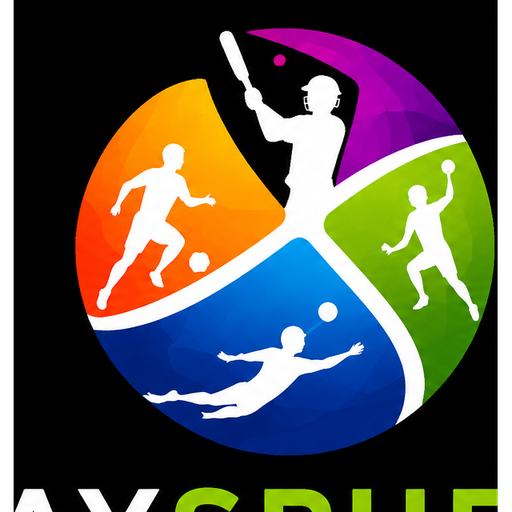
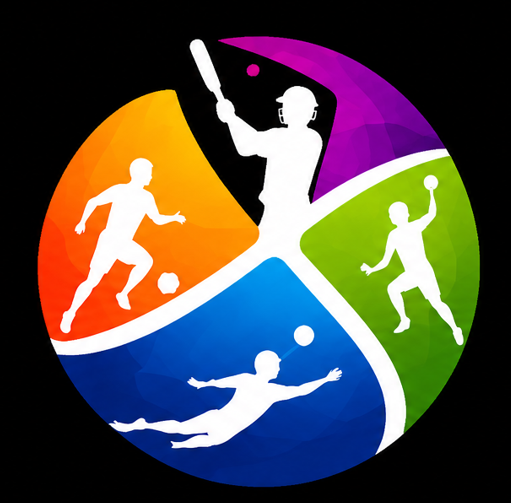
auto-commit for 63f26fcf-e458-4541-9079-3210f4660892

diff --git a/backend/server.py b/backend/server.py
@@ -1093,7 +1093,7 @@ async def delete_booking(booking_id: str, user: dict = Depends(get_current_user)
 
 # ---------- Stats ----------
 @api.get("/stats")
-async def get_stats(user: Optional[dict] = None):
+async def get_stats():
     return {
         "events": await db.events.count_documents({}),
         "teams": await db.teams.count_documents({}),